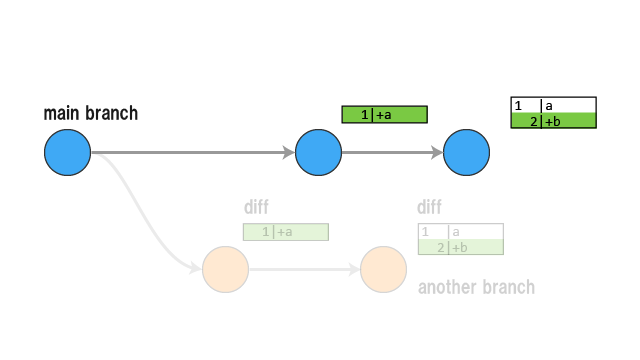
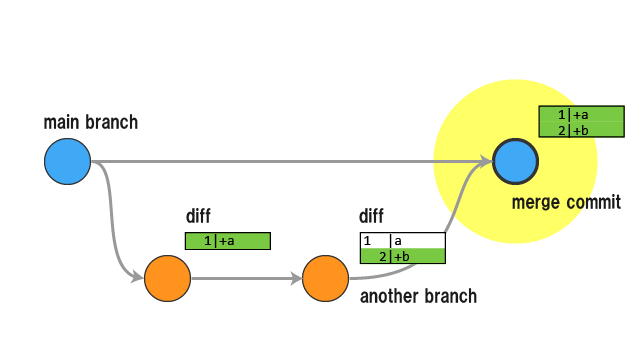
local

Changed region(s): [[0.0625, 0.2139, 1.0, 0.8556]]

diff --git a/articles/f20aee8979292d.md b/articles/f20aee8979292d.md
@@ -149,7 +149,7 @@ git pull origin main
 
 :::details git log の確認
 
-GitHub 上でここまでの git log を確認すると、一直線にコミットが並んでいて、かつ Merge commit2 つが連続しているようにみえてしまいます。
+GitHub 上でここまでの git log を確認すると、一直線にコミットが並んでいるように見え、かつ Merge commit2 つが連続しています。
 
 ![github-log-merge-commit](/images/f20aee8979292d/github-log-merge-commit.png)
 
@@ -175,17 +175,87 @@ git log --oneline --decorate --graph
 
 :::
 
-## fast-forward merge locally
+## ローカル で `no-ff` オプションを使ったマージを試す
 
-:::details (create a merge commit では) プルリクエストは --no-ff オプションを使用してマージされますが…
+GitHub Docs の[「プルリクエストをマージする」](https://docs.github.com/ja/pull-requests/collaborating-with-pull-requests/incorporating-changes-from-a-pull-request/merging-a-pull-request)を見ると、次の記述があります。
 
-### fast-forward merge locally
+> (create a merge commit では) プルリクエストは --no-ff オプションを使用してマージされますが…
 
-```shell
+以下の折りたたみ部分では、この `no-ff` オプションの動作を確認して、本当に GitHub の merge commit と同じ動作なのかを試します。
+
+:::details ローカル環境で no-ff マージを試す手順
+
+まずは最初のコミットで編集対象のファイルを作成します。先程の git レポジトリをそのまま利用できます。
+
+```sh:コピペして実行
+touch local-no-ff.txt
+git add --all
+git commit -m "create local-no-ff.txt"
+```
+
+作成したファイルを更新するコミットを行います。
+
+```sh:コピペして実行
+git switch -c local-no-ff-1
+echo a > local-no-ff.txt
+git add --all
+git commit -m "add a in branch local-no-ff-1"
+echo b >> local-no-ff.txt
+git add --all
+git commit -m "add b in branch local-no-ff-1"
+```
+
+図解にするとこのような感じです。
+
+![git-pr-merge-1.png](/images/f20aee8979292d/git-pr-merge-1.png)
+_git コミットの結果_
+
+`no-ff`オプションを付けて`git merge`コマンドを実行しましょう
+
+```sh:コピペして実行
+git switch main
+git merge --no-ff --no-edit local-no-ff-1
+git branch -d local-no-ff-1
+git push origin main
+```
+
+`no-ff`をつけてマージした結果はこちらのようになります。GitHub 上でのマージと同じように、Merge commit が作成されます。
+
+![git-pr-merge-2.png](/images/f20aee8979292d/git-pr-merge-2.png)
+_git マージの結果_
+
+git log でも確認してみましょう。
+
+```sh:コピペして実行
+git log --oneline --decorate --graph
+```
+
+```:git log 実行結果
+*   0d471f0 Merge branch 'local-no-ff-1'
+|\
+| * 4d651ad add 2 in branch local-no-ff-1
+| * 47b1b49 add 1 in branch local-no-ff-1
+|/
+* d6035c2 create local-no-ff.txt
+```
+
+:::
+
+`no-ff`との比較とのため、fast-forward マージ、つまりオプションを付けない git でのデフォルトのマージを試してみます。
+
+:::details ローカル環境でデフォルトのマージを試す手順
+
+まずは最初のコミットで編集対象のファイルを作成します。先程の git レポジトリをそのまま利用できます。
+
+```sh:コピペして実行
 touch local-ff.txt
 git add --all
 git commit -m "create local-ff.txt"
+```
 
+作成したファイルを更新するコミットを行います。
+
+```sh:コピペして実行
 git switch -c local-ff-1
 echo a > local-ff.txt
 git add --all
@@ -195,128 +265,33 @@ git add --all
 git commit -m "add b in branch local-ff-1"
 ```
 
-![altテキスト](/images/f20aee8979292d/git-pr-merge-1.png)
+図解にするとこのような感じです。
 
-```shell
+![git-pr-merge-1](/images/f20aee8979292d/git-pr-merge-1.png)
+_git コミットの結果_
+
+```sh:コピペして実行
 git switch main
 git merge local-ff-1
 git branch -d local-ff-1
-
 git push origin main
 ```
 
-![altテキスト](/images/f20aee8979292d/git-pr-merge-2.png)
+デフォルトのマージを行った結果はこちらのようになります。Merge commit は作成されず、main ブランチの先にもうひとつのブランチのコミットを連続してコミットしたような形になります。
 
-### no-ff merge locally
+![git-pr-merge-3](/images/f20aee8979292d/git-pr-merge-3.png)
+_git マージの結果_
 
-```shell
-touch local-no-ff.txt
-git add --all
-git commit -m "create local-no-ff.txt"
+git log でも確認してみましょう。
 
-git switch -c local-no-ff-1
-echo a > local-no-ff.txt
-git add --all
-git commit -m "add a in branch local-no-ff-1"
-echo b >> local-no-ff.txt
-git add --all
-git commit -m "add b in branch local-no-ff-1"
-
-git switch main
-git merge --no-ff --no-edit local-no-ff-1
-git branch -d local-no-ff-1
-
-git push origin main
+```sh:コピペして実行
+git log --oneline --decorate --graph
 ```
 
-![altテキスト](/images/f20aee8979292d/git-pr-merge-3.png)
+```:git log 実行結果
+* 6b1858f add 2 in branch local-ff-1
+* 2a85d20 add 1 in branch local-ff-1
+* 07beb58 create local-ff.txt
+```
 
 :::
-
-## Squash and merge
-
-```shell
-cat << EOF > pull-req-squash-merge.txt
-a
-
-b
-
-c
-EOF
-git add --all
-git commit -m "create pull-req-squash-merge.txt"
-git push origin main
-
-git switch -c pr-squash-merge-1
-sed -i 's/a/aaaaa/' pull-req-squash-merge.txt
-git add --all
-git commit -m "update a in pr-squash-merge-1"
-git push --set-upstream origin pr-squash-merge-1
-
-git switch -c pr-squash-merge-2 main
-sed -i 's/b/bbbbb/' pull-req-squash-merge.txt
-git add --all
-git commit -m "update b in pr-squash-merge-2"
-sed -i 's/c/ccccc/' pull-req-squash-merge.txt
-git add --all
-git commit -m "update c in pr-squash-merge-2"
-git push --set-upstream origin pr-squash-merge-2
-
-gh pr create --title pr-squash-merge-1 --body "" --base main --head pr-squash-merge-1
-gh pr create --title pr-squash-merge-2 --body "" --base main --head pr-squash-merge-2
-gh pr merge pr-squash-merge-1 --squash --delete-branch # PRのSquash merge
-gh pr merge pr-squash-merge-2 --squash --delete-branch # PRのSquash merge
-
-git switch main
-git pull origin main
-```
-
-![altテキスト](/images/f20aee8979292d/git-pr-merge-7.png)
-
-![altテキスト](/images/f20aee8979292d/git-pr-merge-8.png)
-
-```shell
-git log --oneline --decorate --graph
-```
-
-## Rebase and merge
-
-```shell
-cat << EOF > pull-req-rebase-merge.txt
-a
-
-b
-
-c
-EOF
-git add --all
-git commit -m "create pull-req-rebase-merge.txt"
-git push origin main
-
-git switch -c pr-rebase-merge-1
-sed -i 's/a/aaaaa/' pull-req-rebase-merge.txt
-git add --all
-git commit -m "update a in pr-rebase-merge-1"
-git push --set-upstream origin pr-rebase-merge-1
-
-git switch -c pr-rebase-merge-2 main
-sed -i 's/b/bbbbb/' pull-req-rebase-merge.txt
-git add --all
-git commit -m "update b in pr-rebase-merge-2"
-sed -i 's/c/ccccc/' pull-req-rebase-merge.txt
-git add --all
-git commit -m "update c in pr-rebase-merge-2"
-git push --set-upstream origin pr-rebase-merge-2
-
-gh pr create --title pr-rebase-merge-1 --body "" --base main --head pr-rebase-merge-1
-gh pr create --title pr-rebase-merge-2 --body "" --base main --head pr-rebase-merge-2
-gh pr merge pr-rebase-merge-1 --rebase --delete-branch
-gh pr merge pr-rebase-merge-2 --rebase --delete-branch
-
-git switch main
-git pull origin main
-git branch -D pr-rebase-merge-1
-git branch -D pr-rebase-merge-2
-
-git log --oneline --decorate --graph
-```
